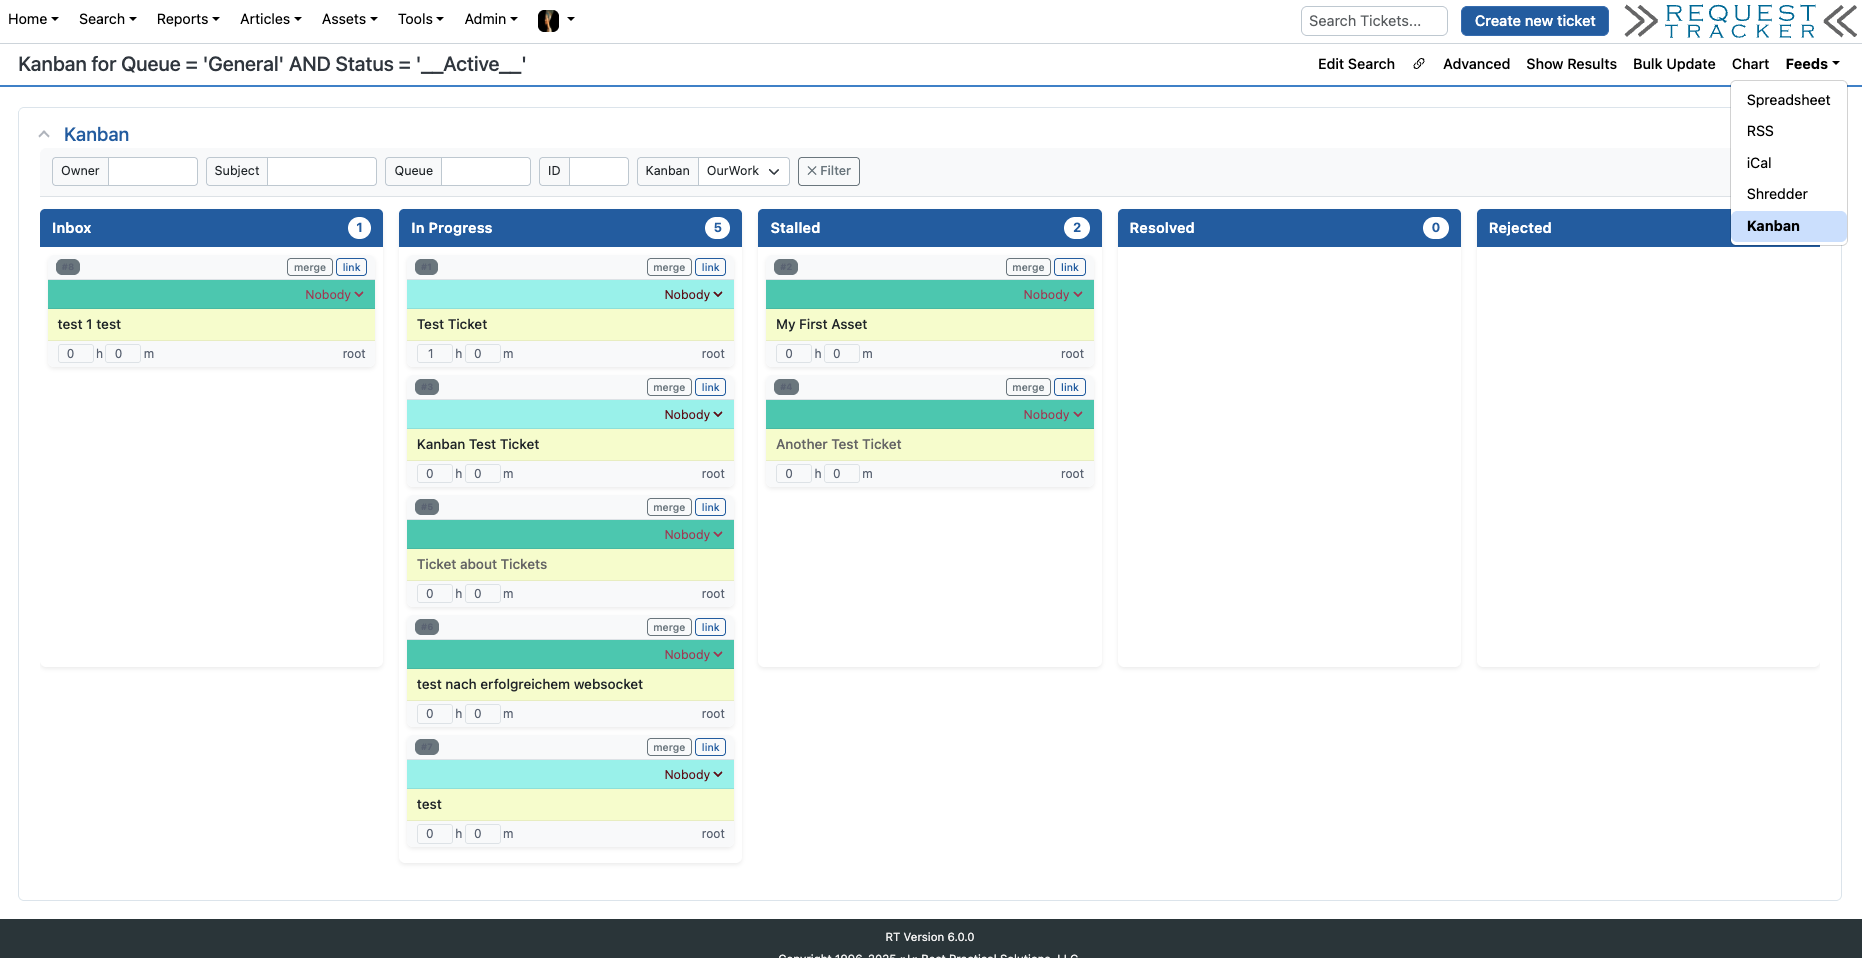
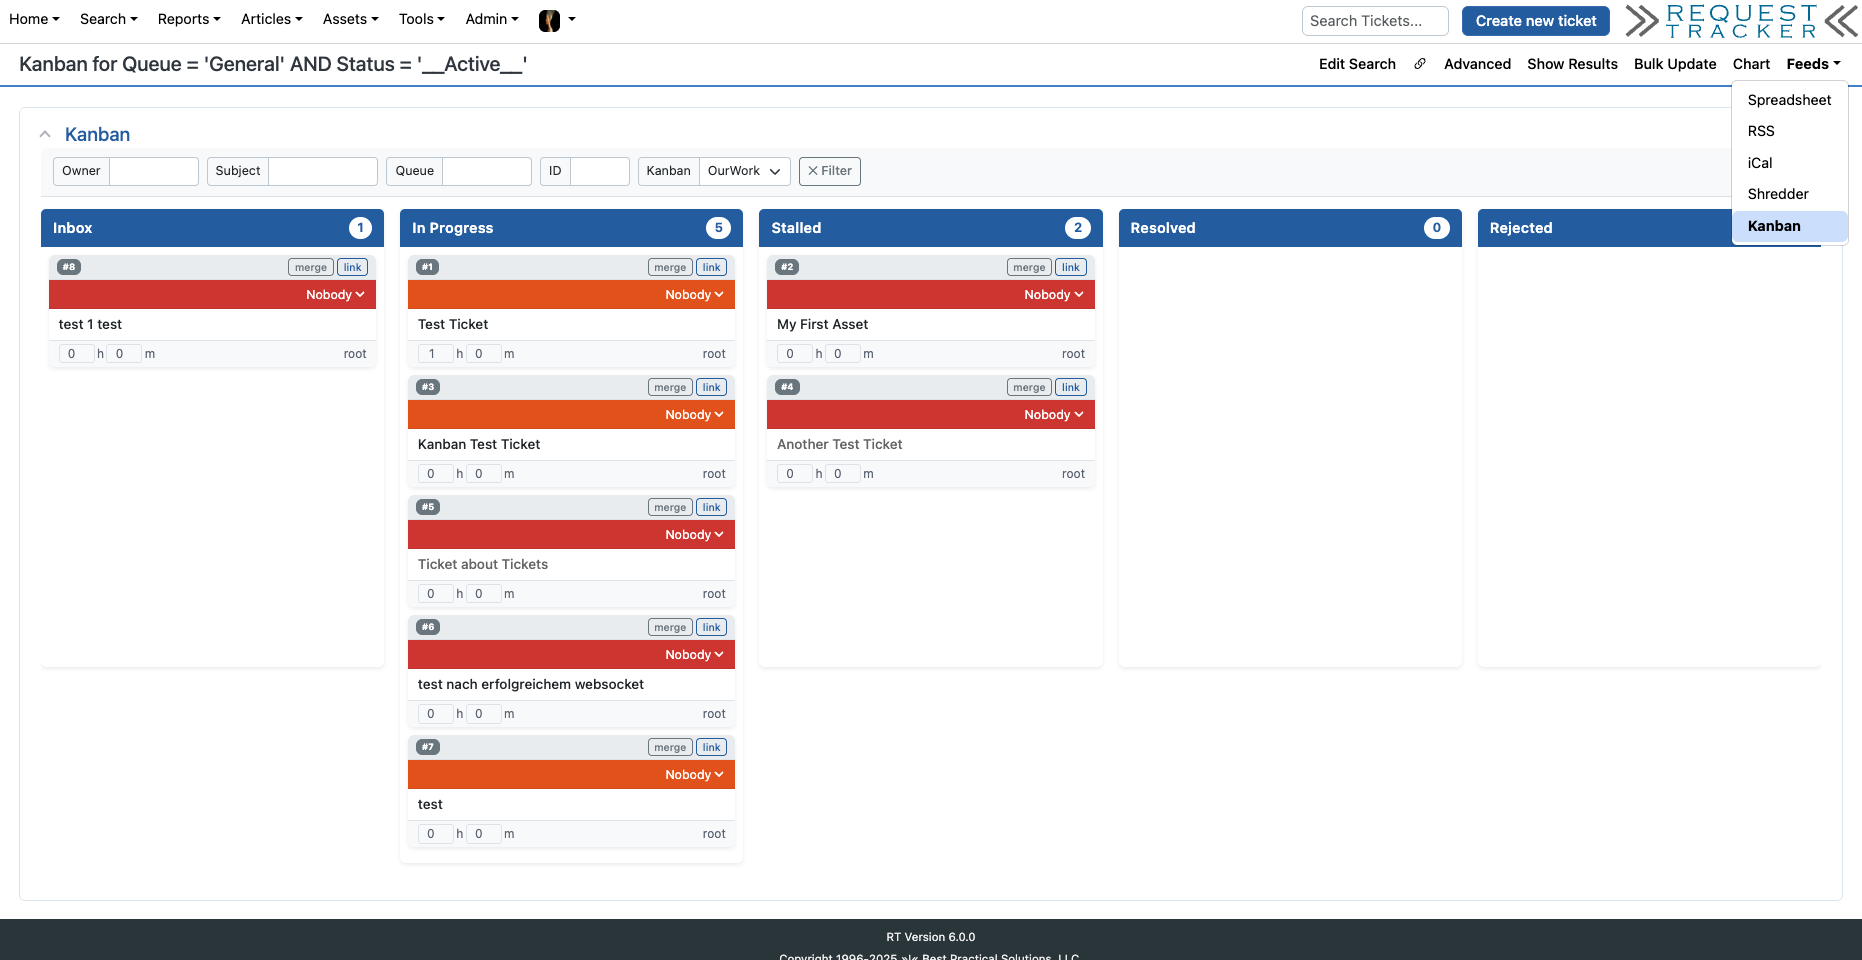
Updated css colors and added new screenshot
Better color scheme and new screenshots

diff --git a/static/css/tasks.css b/static/css/tasks.css
@@ -96,7 +96,7 @@ li.ticket.ui-sortable-helper {
   align-items: center;
   justify-content: space-between;
   padding: 0.2rem 0.5rem;
-  background-color: var(--bs-light);
+  background-color: var(--bs-secondary-bg);
   border-bottom: 1px solid var(--bs-border-color);
   font-size: 0.75rem;
   color: var(--bs-secondary-color);
@@ -133,7 +133,8 @@ li.ticket.ui-sortable-helper {
   padding: 0.4rem 0.6rem;
   font-size: 0.85rem;
   line-height: 1.35;
-  border-bottom: 1px solid rgba(0,0,0,0.06);
+  background-color: var(--bs-body-bg);
+  border-bottom: 1px solid var(--bs-border-color);
 }
 
 .ticket-subject a {

diff --git a/README.md b/README.md
@@ -2,7 +2,7 @@
 
 Adds a Kanban board to [Request Tracker](https://bestpractical.com/request-tracker/) with real-time WebSocket updates, drag-and-drop ticket management, and a fully configurable lane layout.
 
-![Kanban board screenshot](https://github.com/tbrumm/rt-extension-kanban/blob/master/screenshots/kanban.png)
+![Kanban board screenshot](https://raw.githubusercontent.com/nixcloud/rt-extension-kanban/master/screenshots/kanban.jpg)
 
 **Features**
 
@@ -145,8 +145,6 @@ Set($cutCreatorName, 12);   # default: 10
 Any ticket search can be opened as a Kanban board. After running a search in RT, the navigation bar shows a **Feeds** menu — select **Kanban** to open the current search results as a board.
 
 The Kanban respects the active search query: each lane only shows tickets that match **both** the lane's own query and the search filter. Dragging a ticket between lanes still applies the lane's `Change` fields (e.g. updating Status or Owner) as usual.
-
-![Search Kanban board screenshot](https://github.com/tbrumm/rt-extension-kanban/blob/master/screenshots/Kanban_Search.png)
 
 The lane configuration (columns, queries, drop actions) is the same as for the dashboard widget and is controlled via `%KanbanConfigs` in `RT_SiteConfig.pm`.
 
